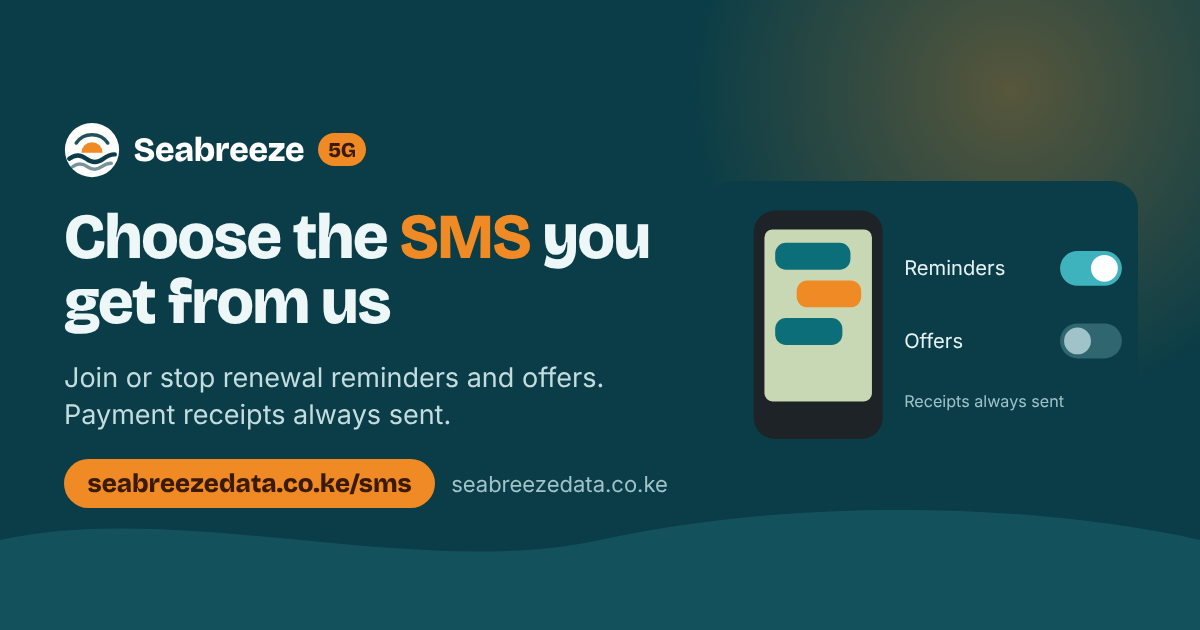
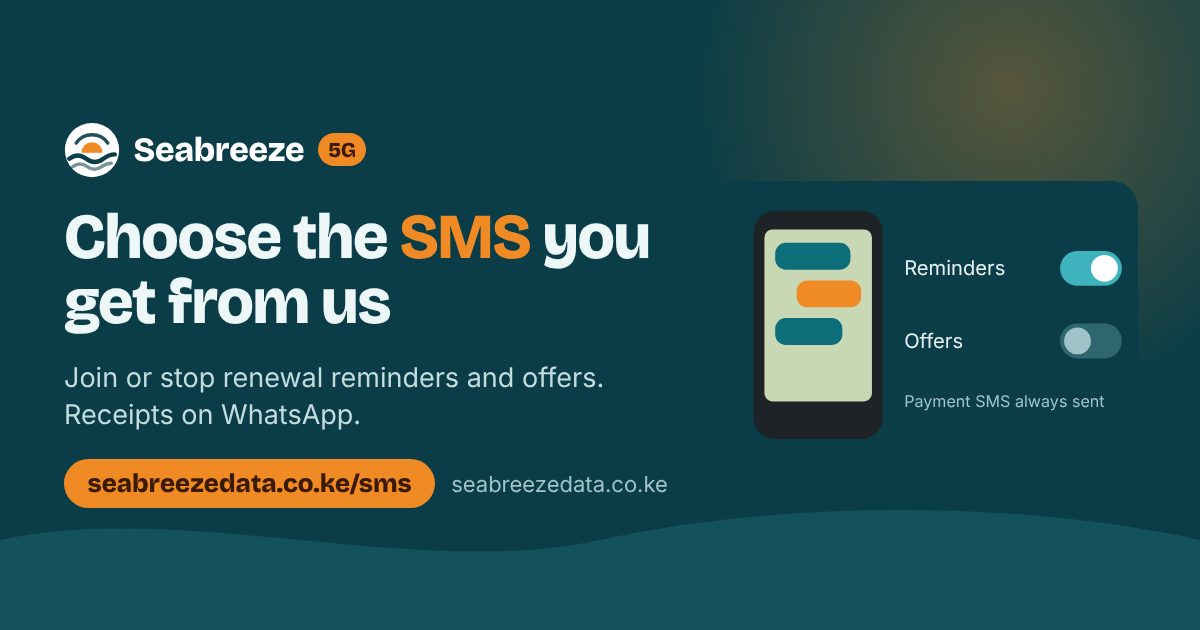
Redraw the SMS share image: receipts on WhatsApp
Claude-Session: https://claude.ai/code/session_01SYo3CKGzddCejXyQcqZFQc

Changed region(s): [[0.0617, 0.6333, 0.37, 0.6937], [0.7708, 0.6032, 0.925, 0.6635]]

diff --git a/tools/cards.py b/tools/cards.py
@@ -190,7 +190,7 @@ def build(out):
                                           "Live TV, films and series on smart TV, TV box or phone. Italian and international options. One annual plan.",
                                           tv_card(), tag="Ask on WhatsApp")
     files["og/sms_1200x630"] = og("Choose the <em>SMS</em> you get from us",
-                                  "Join or stop renewal reminders and offers. Payment receipts always sent.", sms_card(), tag="seabreezedata.co.ke/sms")
+                                  "Join or stop renewal reminders and offers. Receipts on WhatsApp.", sms_card(), tag="seabreezedata.co.ke/sms")
     for slug, a in art.AREAS.items():
         where = f"<em>{html.escape(a['name'])}</em>" + (" County" if a["kind"] == "county" else "")
         sub = ("Whole county covered by local Seabreeze agents." if a["kind"] == "county"
